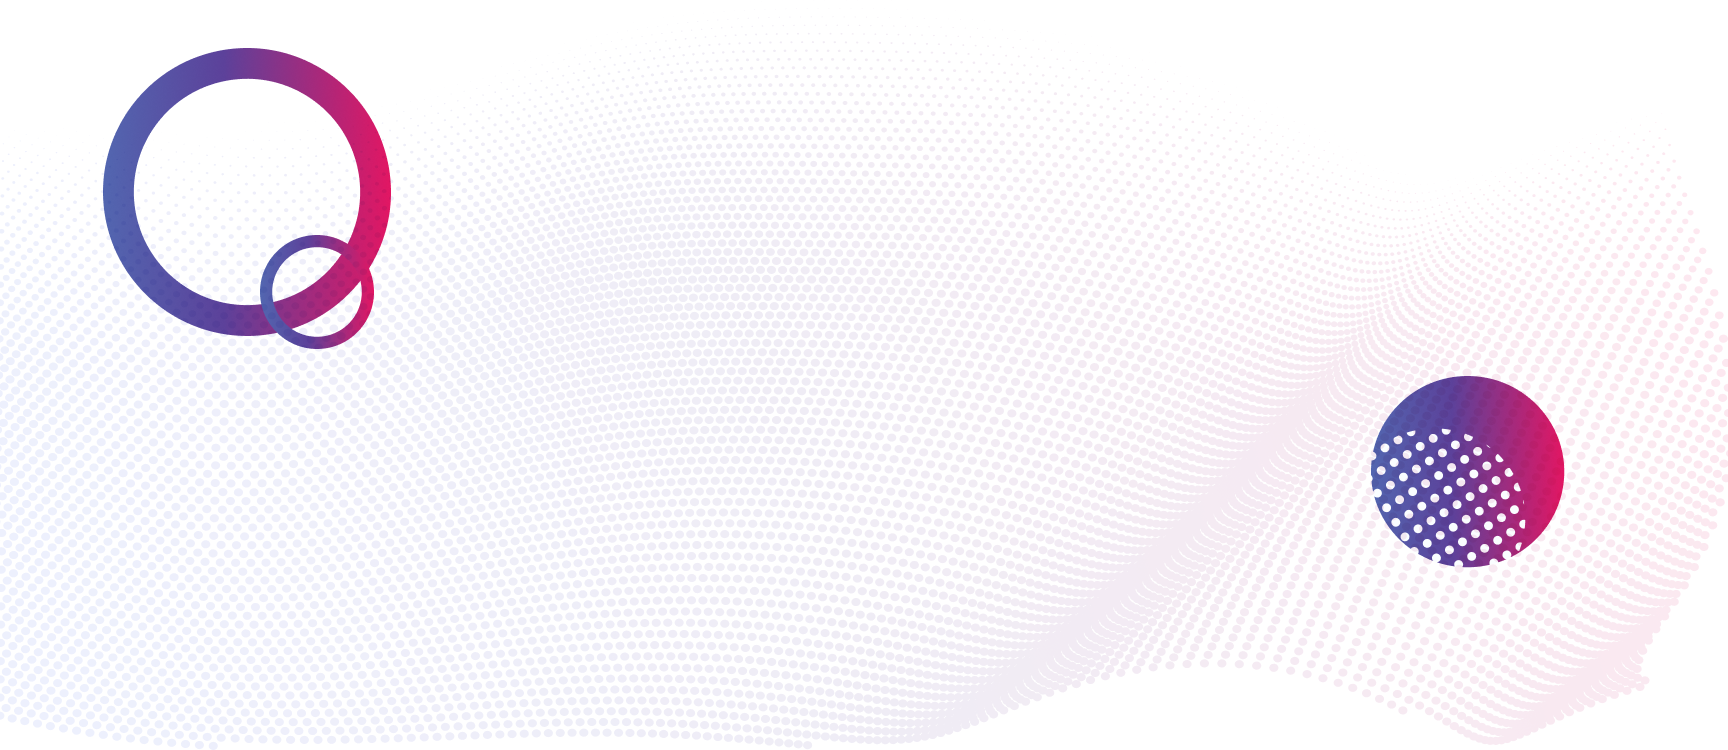
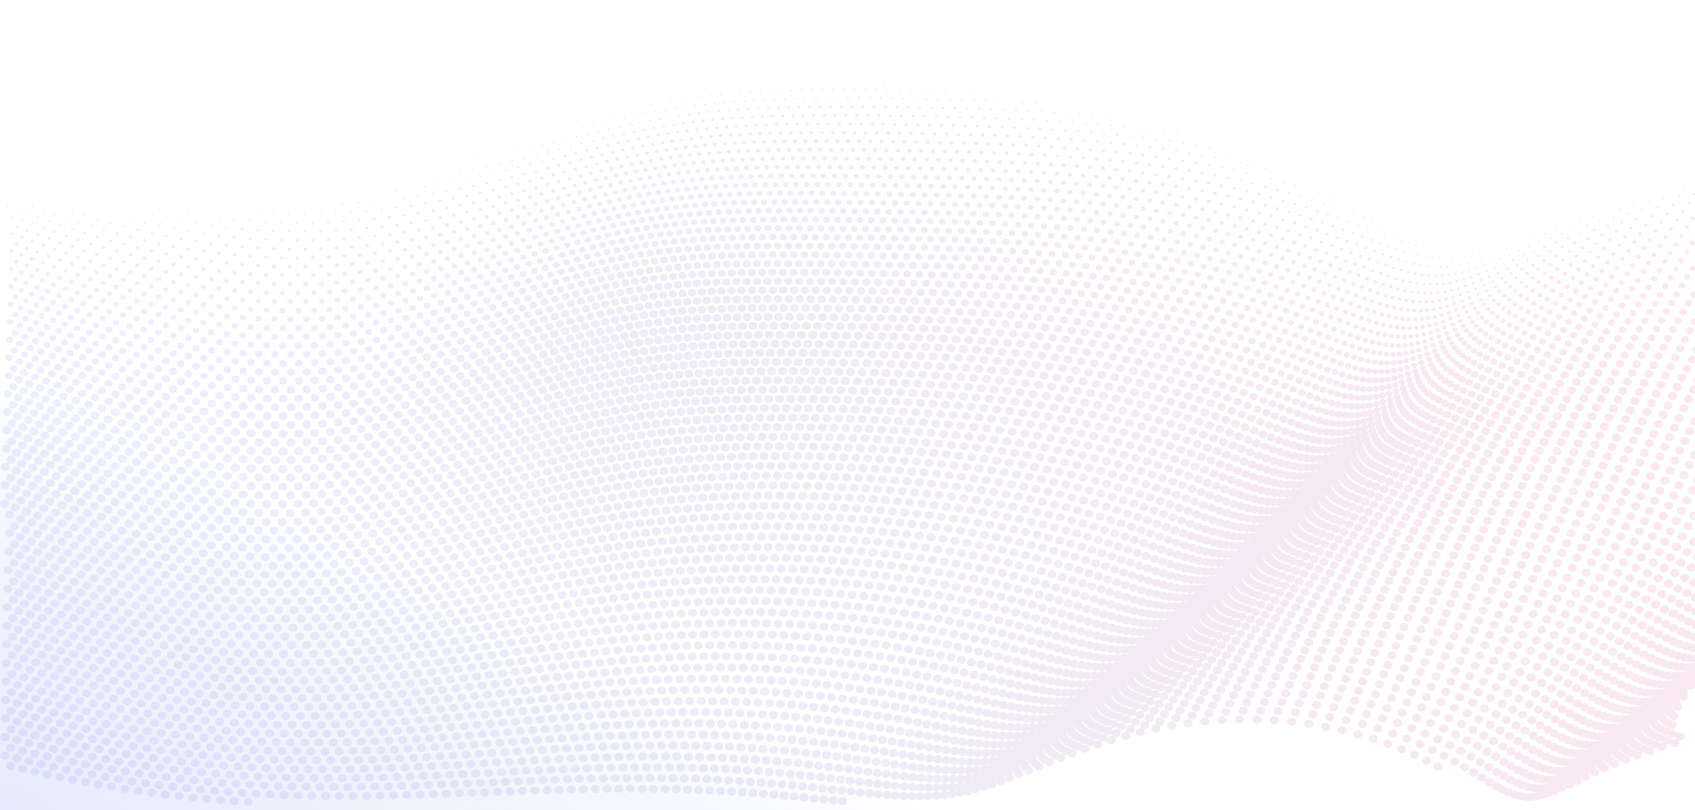
Hero section designed

diff --git a/src/pages/Home/components/HeroSection.jsx b/src/pages/Home/components/HeroSection.jsx
@@ -1,32 +1,33 @@
 import React from 'react';
 import '../../../assets/css/home.css';
 import Arrow from '../../../assets/images/arrow.png';
-import Circle from '../../../assets/images/circle.png';
-import RoundedIcon from '../../../assets/images/roundIcon.png';
+import Circle from '../../../assets/images/round-2.png';
+import RoundedIcon from '../../../assets/images/round-1.png';
 function HeroSection() {
   return (
-    <div className='heroSection flex flex-col justify-center py-5 md:py-10 gap-5 md:gap-10 items-center  '>
-      <div className='mobileCircle  flex justify-start md:hidden w-full px-10'>
-        <img className='bigCircle' src={Circle} alt='' />
-        <img className='smallCircle' src={Circle} alt='' />
-      </div>
-      <div className='heroTitle flex flex-col gap-5 md:gap-10  md:mt-10'>
-        <div className='heroTitleText'>
-          {' '}
-          <span className='transform'>Transform</span> <br />
-          <span className='yourwaste'>your waste</span>
-          <br />
-          <span className='into'>into</span>
-          <span className='income gradient-text'>income</span>{' '}
+    <div className='flex flex-col gap-5 '>
+      <div className='heroMain flex flex-col md:flex-row  justify-center py-5 md:py-10 gap-5 md:gap-10  w-10/12 mx-auto mb-5'>
+        <div className='mobileCircle  flex justify-start items-start  w-full '>
+          <img className='bigCircle' src={Circle} alt='' />
         </div>
-        <div className='flex justify-center md:mt-5'>
-          <button className='heroButton text-white'>See how</button>
+        <div className='heroTitle flex flex-col jsutify-center items-center gap-5 md:gap-10  md:mt-10'>
+          <div className='heroTitleText'>
+            {' '}
+            <span className='transform'>Transform</span> <br />
+            <span className='yourwaste'>your waste</span>
+            <br />
+            <span className='into'>into</span>
+            <span className='income gradient-text'>income</span>{' '}
+          </div>
+          <div className='flex justify-center md:mt-5'>
+            <button className='heroButton text-white'>See how</button>
+          </div>
+        </div>
+        <div className='mobileRounded flex items-end justify-end  w-full '>
+          <img className='roundedIcon' src={RoundedIcon} alt='' />
         </div>
       </div>
-      <div className='mobileRounded flex justify-end md:hidden w-full px-10'>
-        <img className='roundedIcon' src={RoundedIcon} alt='' />
-      </div>
-      <div className='arrowSection mb-10 hidden md:flex'>
+      <div className='arrowSection flex justify-center mb-10 hidden md:flex'>
         <img className='arrowImg' src={Arrow} alt='' />
       </div>
     </div>

diff --git a/src/assets/css/home.css b/src/assets/css/home.css
@@ -2,6 +2,7 @@
   padding: 0px;
   margin: 0px;
   box-sizing: border-box;
+  /* overflow-y: scroll; */
 }
 .gradient-text {
   background: linear-gradient(90deg, #4765e6 0%, #5c4099 50%, #e31662 100%);
@@ -15,7 +16,7 @@
   height: 810px;
   background: url('../images/home.png');
   background-repeat: no-repeat;
-  background-size: contain !important;
+  background-size: cover !important;
   background-position-y: center;
 }
 
@@ -45,6 +46,10 @@
 .arrowImg {
   width: 41.19px;
   height: 131.79px;
+}
+
+.mobileRounded {
+  /* height: 150px; */
 }
 .heroButton {
   background: linear-gradient(
@@ -105,15 +110,13 @@
     width: 110px;
     height: 110px;
   }
-  .smallCircle {
-    position: absolute !important;
-    width: 44px;
-    height: 44px;
-    left: 111px;
-    top: 185px;
-  }
-  .mobileRounded {
+
+  .roundedIcon {
     width: 90px;
     height: 89.06px;
+  }
+  .arrowImg {
+    width: 29.6px;
+    height: 84px;
   }
 }

diff --git a/src/components/Header.jsx b/src/components/Header.jsx
@@ -6,8 +6,8 @@ export default function Header() {
   const [isOpen, setIsOpen] = useState(false);
   return (
     <header className='headerMain shadow sticky z-50 top-0 border border-black flex items-center'>
-      <nav className='bg-white border-gray-200 px-4 lg:px-6 py-2.5 w-full'>
-        <div className='flex flex-wrap justify-between items-center mx-auto max-w-screen-xl'>
+      <nav className='bg-white border-gray-200  py-2.5 w-10/12 mx-auto'>
+        <div className='flex flex-wrap justify-between items-center  w-full'>
           <Link to='/' className='headerLogo flex items-center'>
             <img src={logo} className='mr-3 h-12' alt='Logo' />
           </Link>

diff --git a/src/pages/Home/Home.jsx b/src/pages/Home/Home.jsx
@@ -1,10 +1,20 @@
 import React from 'react';
 import '../../assets/css/home.css';
+import Arrow from '../../assets/images/arrow.png';
+import TrustedBy from '../../components/TrustedBy';
 import HeroSection from './components/HeroSection';
 function Home() {
   return (
     <div>
-      <HeroSection />
+      <div className='heroSection'>
+        <HeroSection />
+      </div>
+      <div className='arrowSection flex justify-center md:hidden'>
+        <img className='arrowImg' src={Arrow} alt='' />
+      </div>
+      <div className='trustedBySection'>
+        <TrustedBy />
+      </div>
     </div>
   );
 }

diff --git a/src/components/TrustedBy.jsx b/src/components/TrustedBy.jsx
@@ -1,0 +1,20 @@
+import React from 'react';
+
+function TrustedBy() {
+  return (
+    <div className='trustMain w-10/12 border border-black mx-auto mb-10'>
+      <div className='trustTitle '>
+        <span className=' trustTitleText gradient-text'>TrustedBy</span>
+      </div>
+      <div className='trust flex'>
+        <div className='trustItem'></div>
+        <div className='trustItem'></div>
+        <div className='trustItem'></div>
+        <div className='trustItem'></div>
+        <div className='trustItem'></div>
+      </div>
+    </div>
+  );
+}
+
+export default TrustedBy;

diff --git a/src/assets/css/style.css b/src/assets/css/style.css
@@ -75,6 +75,18 @@
   line-height: 24px;
 }
 
+/* TrustedBy Component */
+.trustedBySection {
+}
+.trustMain {
+  height: 184px;
+}
+.trustTitleText {
+  font-weight: 600;
+  font-size: 35px;
+  line-height: 45px;
+}
+
 /* Medai Queries for responsive design */
 @media screen and (max-width: 768px) {
   /* Header */
